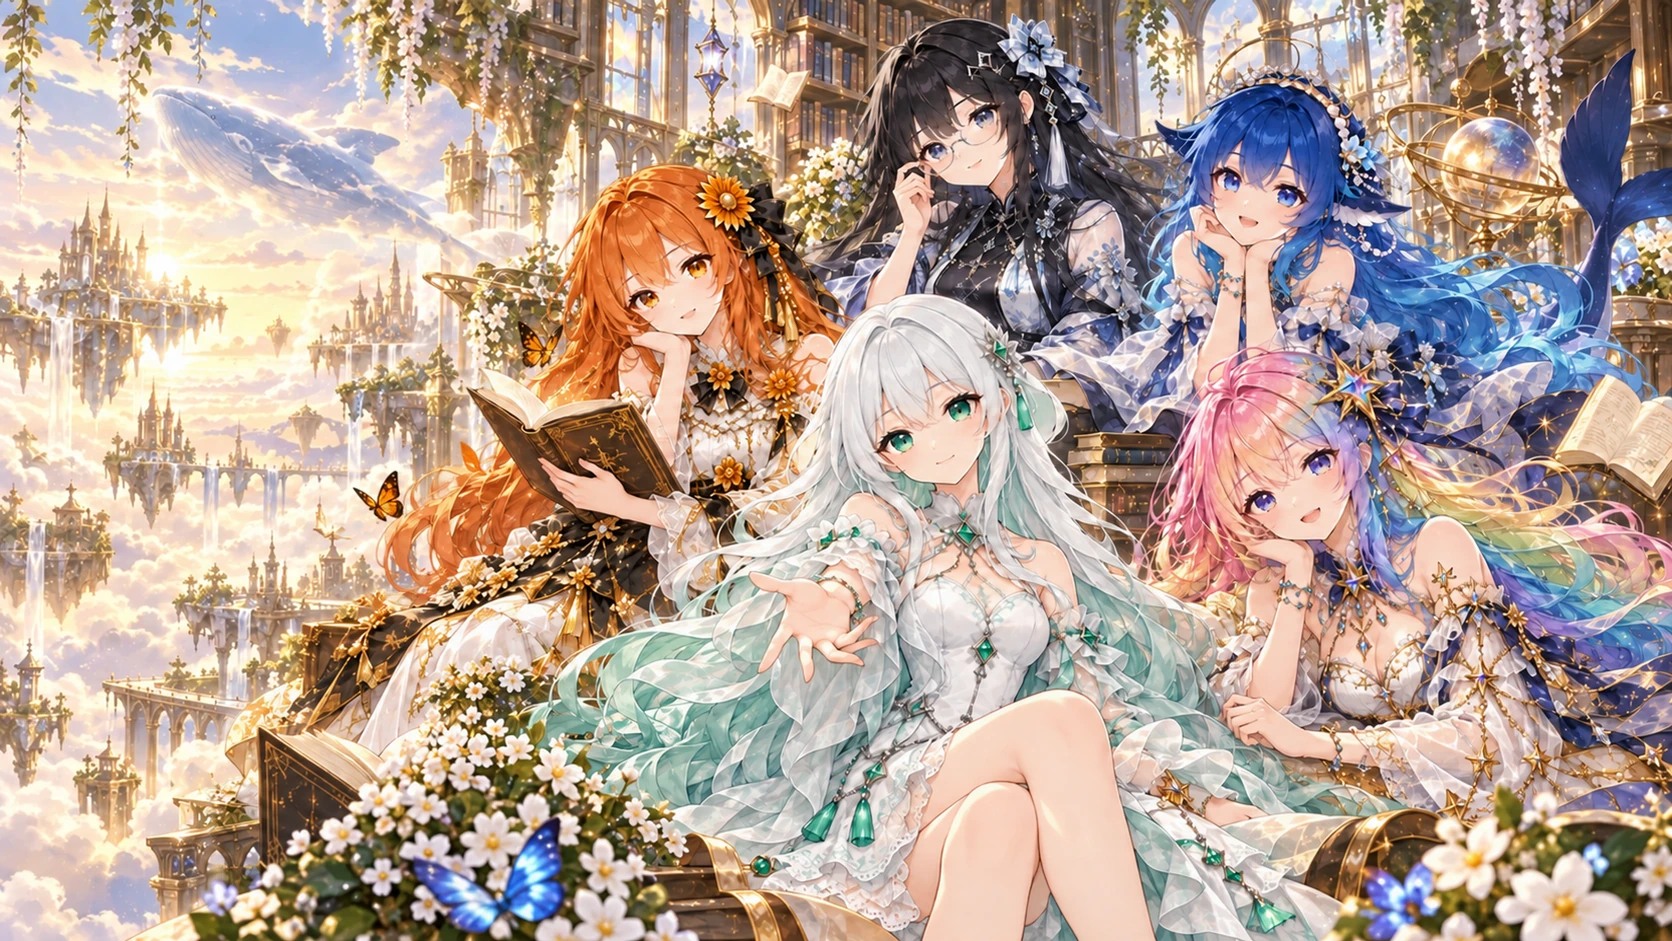
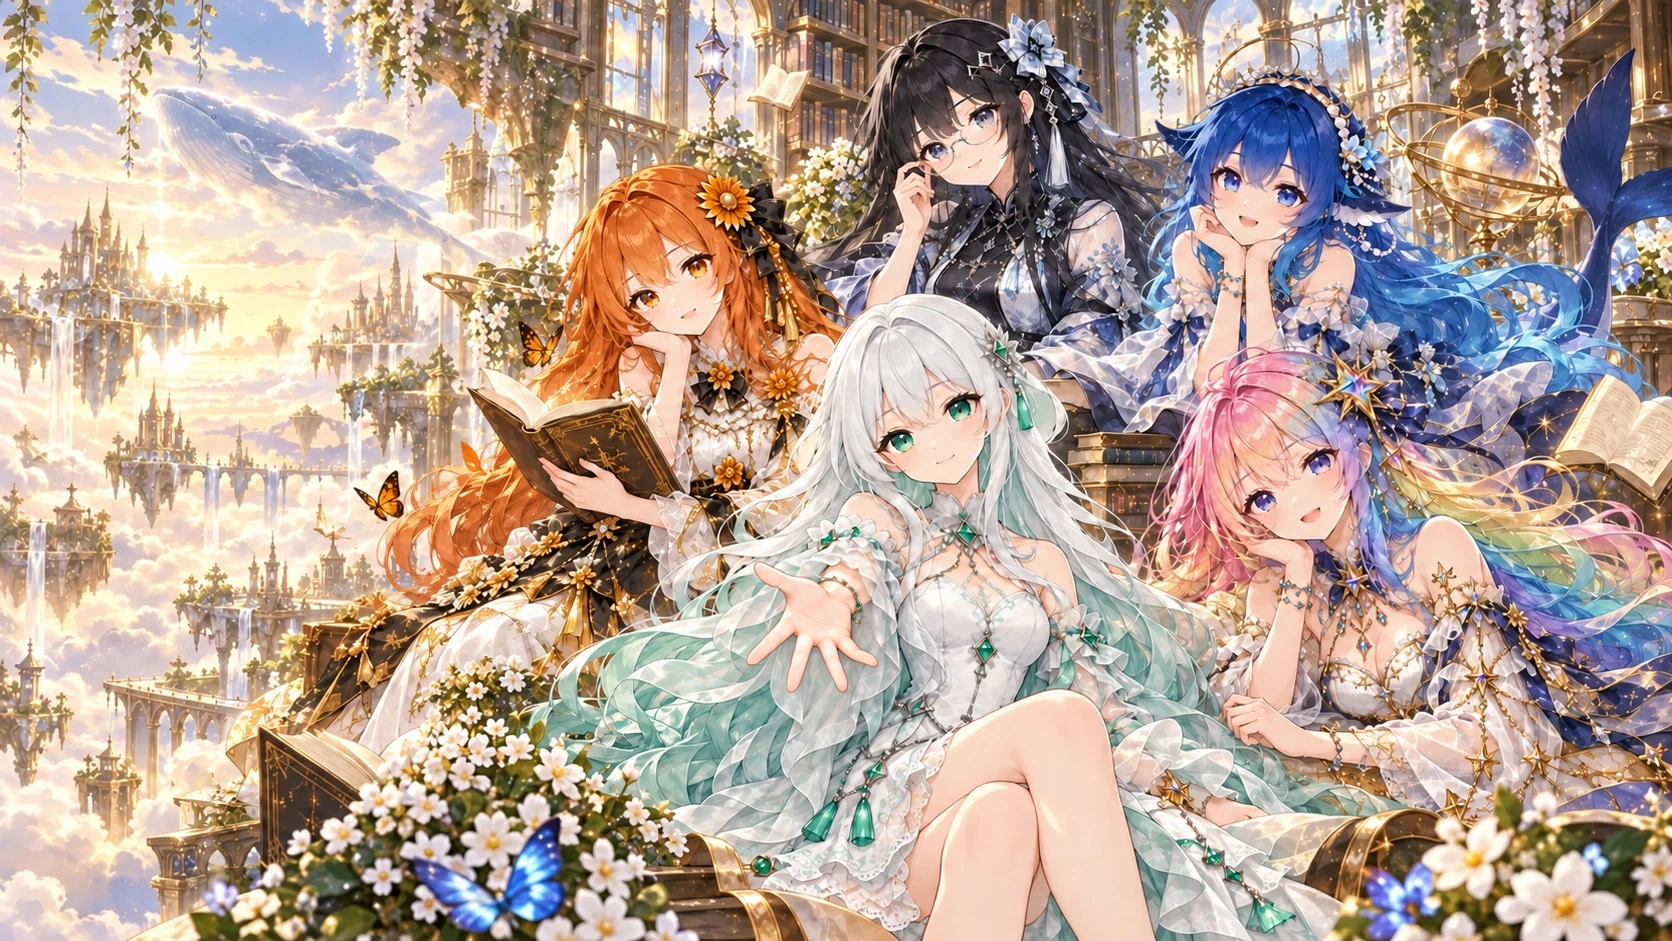
fix(gacha): correct permanent cover hand anatomy

diff --git a/web/public/assets/gacha/NOTICE.md b/web/public/assets/gacha/NOTICE.md
@@ -8,6 +8,8 @@ All cards now have retained background and foreground inputs. Forty ordinary car
 
 Seven ordinary foregrounds retain generative corrections of their established portraits: `a-chatgpt` pours into a cup on a table; `c-deepseek` touches a visible puddle; `d-chatgpt` supports her saucer; `e-claude` and `e-glm` retain their tables; and `f-chatgpt` and `f-claude` retain their seat and trunk. Their character designs, theme backgrounds and composition registration are preserved. Each revised 1024 × 1536 transparent source supplies its standard card, 256 × 384 thumbnail, foreground and 2560 × 3840 resampled derivatives. Independent group illustrations and covers retain their own compositions.
 
+The permanent-pool cover retains a localized generative correction of ChatGPT's outstretched hand to five fingers. Only the hand region of the generated 1672 × 941 foreground edit is adopted; the remaining character artwork, background and composition registration are preserved. Both transparent foregrounds and composited covers share the correction at standard size and 3840 × 2160 resampled size.
+
 ChatGPT, Claude, GLM, DeepSeek and Gemini names identify the fictional character inspirations. Related names and marks belong to their respective holders. The activity is not affiliated with or endorsed by those holders.
 
 The soundtrack `audio/lobby.mp3` is the project's lobby arrangement of **Elevate** by **Fupi**, based on the [Elevate instrument tracks](https://opengameart.org/content/elevate-instrument-tracks), released under [CC0](https://creativecommons.org/publicdomain/zero/1.0/). The source composition and instrument tracks retain that dedication.
